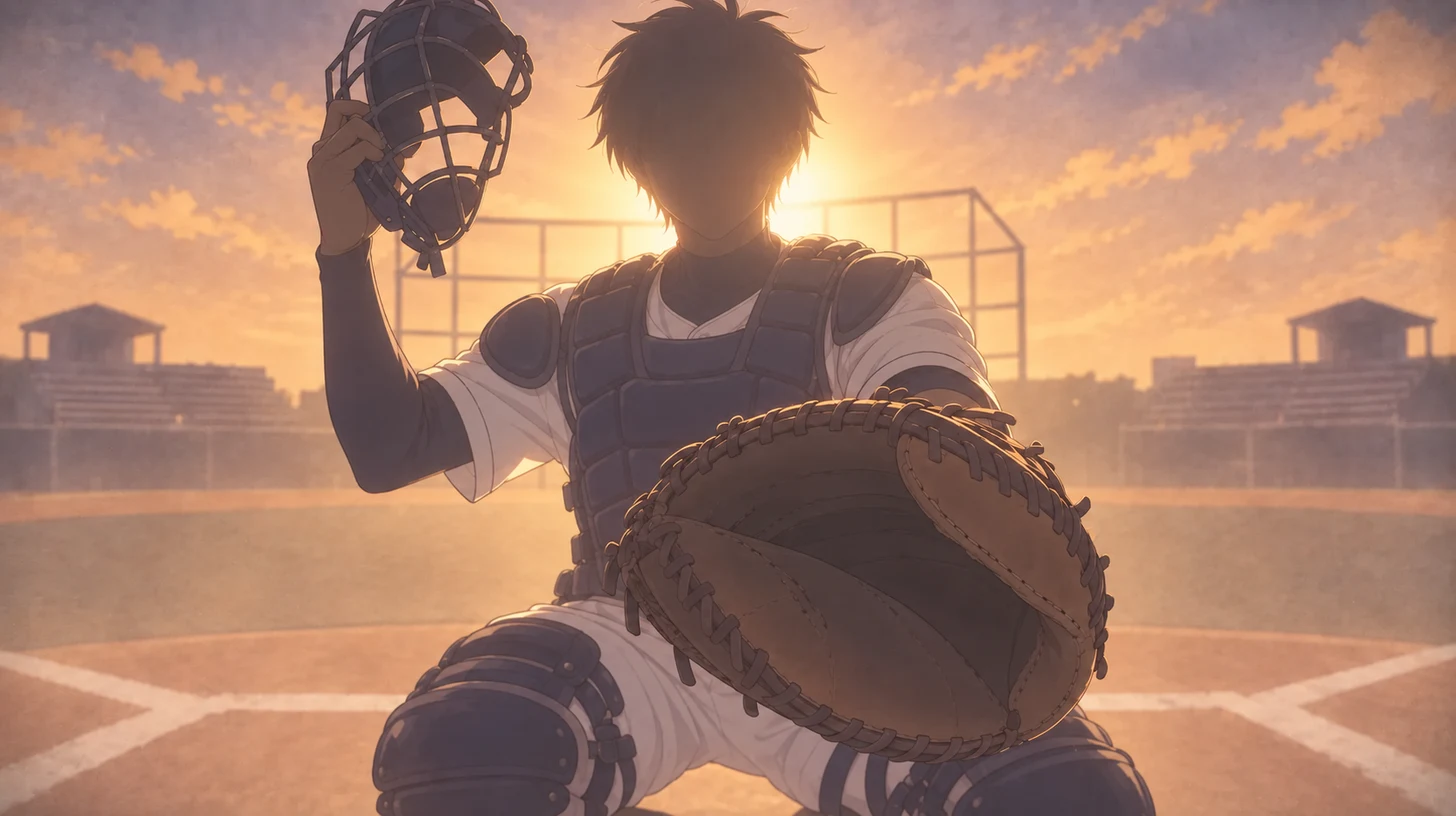
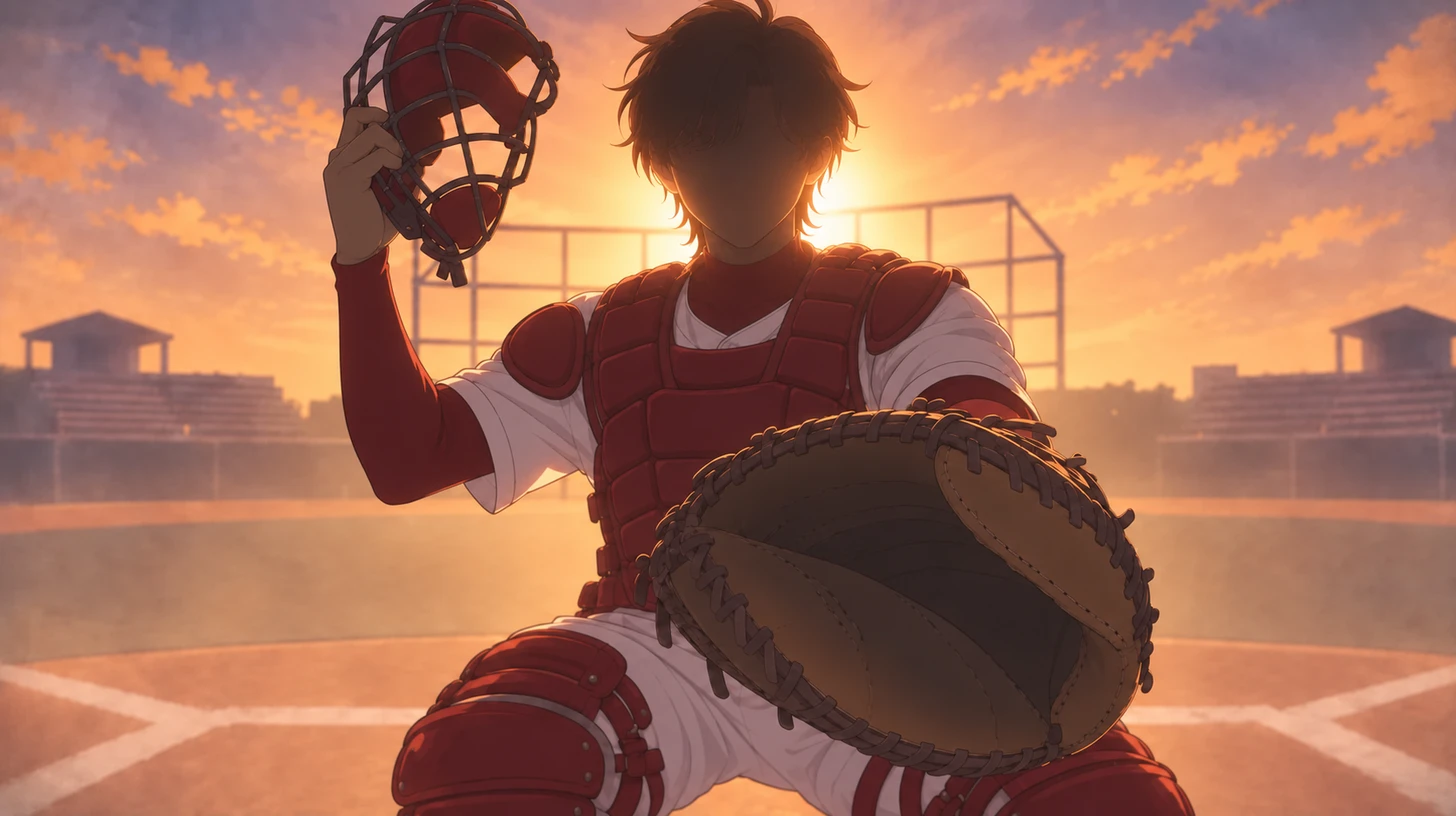
fix(cutscene): 야구공 회상 컷의 포수를 재하 실루엣과 붉은 보호장비로 바꾼다

diff --git a/public/assets/CREDITS.md b/public/assets/CREDITS.md
@@ -15,6 +15,7 @@
 | images/mg-ball-catch-bat.webp | Style-matched with OpenAI built-in ImageGen for this project, 2026-09-25 | OpenAI built-in ImageGen | Project-generated |
 | images/mg-ball-catch-impact.webp | Style-matched with OpenAI built-in ImageGen for this project, 2026-09-25 | OpenAI built-in ImageGen | Project-generated |
 | images/mg-cutscene-console-flashback.webp, images/mg-cutscene-ball-flashback.webp | `character-hero-sheet.webp`와 `mg-photo-wipe-phase-1.webp`의 부드러운 저채도 회상 화풍을 참고해 새로 생성하고, 동일 레퍼런스 수준의 단순한 선화·셀 채색으로 재편집한 미니게임 클리어 컷씬 2장 (2026-09-26) | OpenAI built-in ImageGen | Project-generated |
+| images/mg-cutscene-ball-flashback.webp | 사용자 제공 재하 참고 이미지(`hf_20261003_025719_280cff0f-71b6-42d6-9238-7651b15a8974.png`)의 긴 앞머리·얼굴 윤곽으로 포수 실루엣 교체하고 보호장비·마스크 패딩·이너를 붉은색으로 변경. 기존 구도·노을과 얼굴이 역광에 가려지는 연출 유지 (2026-10-05) | OpenAI built-in ImageGen | 프로젝트 편집 에셋 |
 | images/mg-frequency-tune-frame.webp | 사용자 제공 라디오 일러스트를 OpenAI built-in ImageGen으로 화풍 정리(2026-09-25). 외곽·표시창 알파 보존 | OpenAI GPT (원본 생성) · suu3 (리터칭) · OpenAI built-in ImageGen (화풍 정리) | 프로젝트 편집 에셋 |
 | images/character-hero-neutral.webp, images/character-hero-smile.webp, images/character-hero-surprised.webp | 사용자가 새로 넣은 주인공 초상 3장(2026-09-25 교체). 1348×1892 PNG를 이전 초상과 머리 폭·정수리 위치가 같도록 4:5로 잘라 640×800 webp로 변환. 투명 배경, 세 장 같은 크롭. embarrassed 표정은 이때 뺐다 | OpenAI GPT (생성) · suu3 (리터칭) | 프로젝트 편집 에셋 |
 | images/character-hero-sheet.webp | 사용자가 새로 그린 LD 스케치를 OpenAI built-in ImageGen으로 기존 캐릭터 팔레트에 맞춰 채색·선화 정리(2026-09-25). SD 조각 제거, 상반신 크롭, 투명 배경 | suu3 (원본 스케치) · OpenAI built-in ImageGen (채색·마감) | 프로젝트 편집 에셋 |
